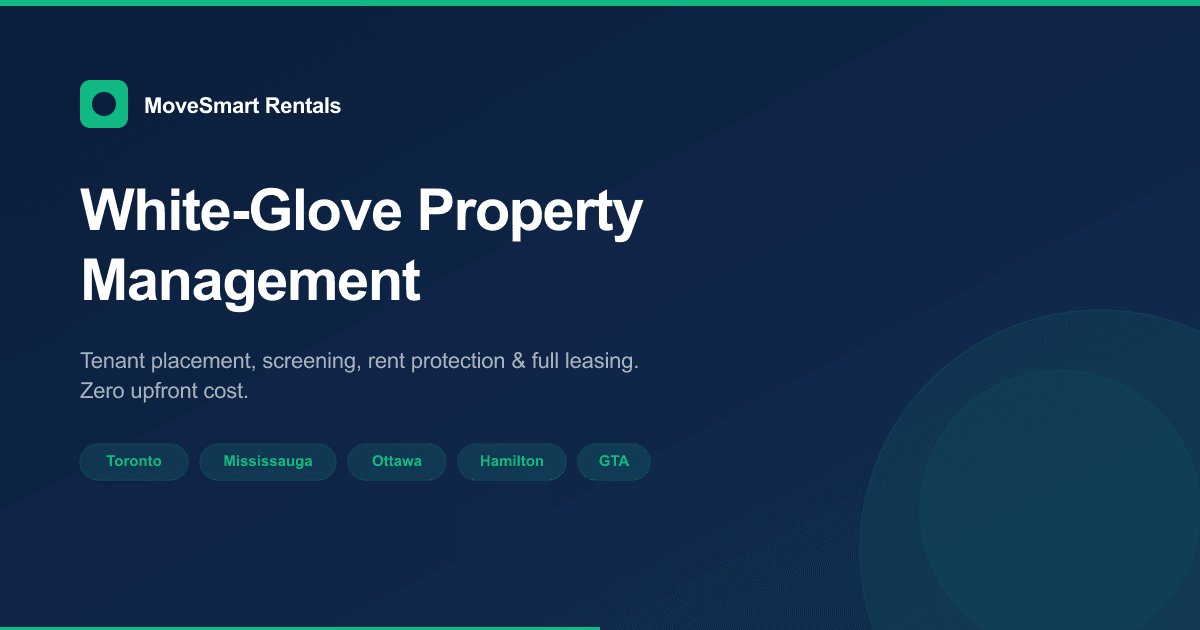
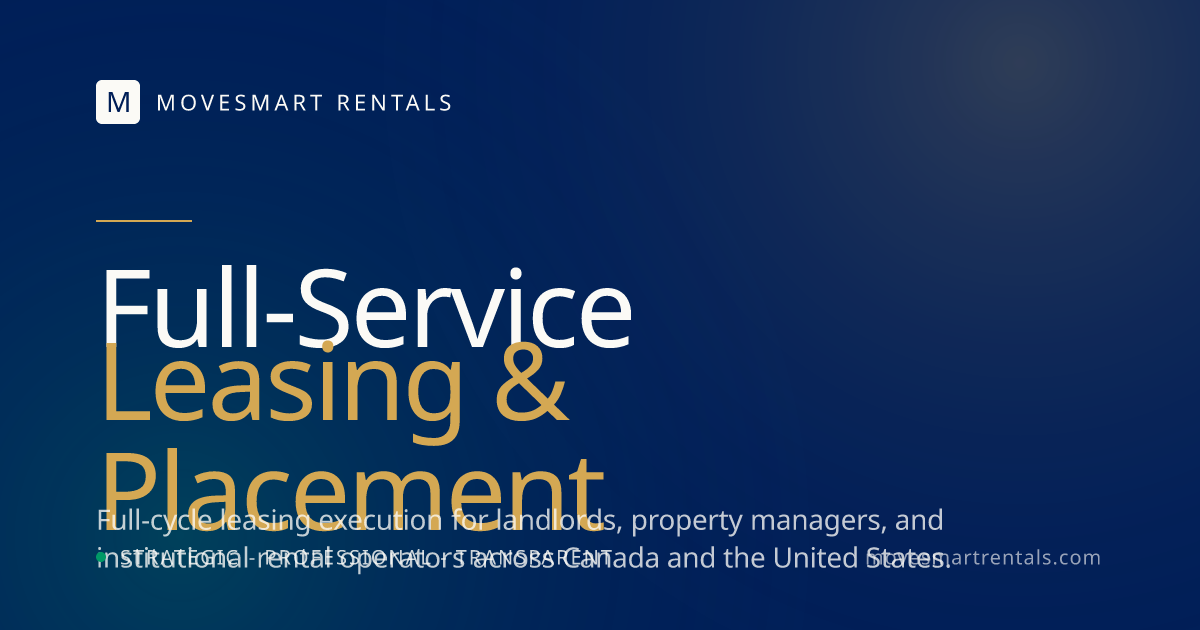
fix: hide /properties/ from public + refresh stale OG share image
Client direction (Jun 2026):

1) Hide the /properties/ rental browser from public surfaces. The route
   itself stays mounted (direct URL still resolves) so internal users can
   reach it if needed, but it's no longer discoverable or indexable.

   - Removed "Browse Properties" entry from header nav, mobile nav, and
     footer "Tenant Resources" column (nav-config.ts + mobile-nav.tsx).
   - Removed the "Browse rentals" CTA button from the footer brand block,
     the home-page hero, and the owners-page hero (next to "List my
     property" — these were the most prominent public entry points).
   - Removed the strong "See all live listings" CTA from the tenants
     property-feed section.
   - Converted the four property-type cards on /tenants/ from Links to
     non-interactive divs and dropped the "Browse {type}" CTA text, so
     the visual showcase remains but no longer click-throughs to the
     hidden page. Section copy updated to drop the "filter the live
     listings" hook.
   - Added metadata.robots { index: false, follow: false, nocache: true }
     plus the googleBot equivalents on both /properties/ and
     /properties/[slug]/ so search engines fully drop the surface.
   - Added "/properties/" and "/properties/*" to robots.ts Disallow.
   - Sitemap.ts already had no /properties/ entries — no change needed.

2) The dynamic OG image generator at src/app/opengraph-image.tsx has the
   correct new branding ("Full-Service Leasing & Placement") but the
[…]

diff --git a/src/app/(site)/tenants/page.tsx b/src/app/(site)/tenants/page.tsx
@@ -360,13 +360,8 @@ export default async function TenantsPage() {
         </div>
       </div>
 
-      {/* Strong CTA */}
-      <Link
-        href="/properties/"
-        className="mt-6 flex w-full items-center justify-center gap-2 rounded-xl bg-brand-emerald px-4 py-3 text-sm font-bold text-white shadow-sm transition-all hover:-translate-y-0.5 hover:bg-brand-emerald-dark hover:shadow-md"
-      >
-        See all live listings
-      </Link>
+      {/* "See all live listings" CTA removed per client direction
+          (Jun 2026) — /properties/ is hidden from public surfaces. */}
 
       <div className="mt-5 border-t border-brand-navy/10 pt-4">
         <p className="text-[11px] leading-relaxed text-slate-500">
@@ -558,7 +553,7 @@ export default async function TenantsPage() {
                 <span className="text-brand-gold" aria-hidden="true">.</span>
               </h2>
               <p className="mt-5 max-w-xl text-base leading-relaxed text-slate-600 sm:text-lg">
-                Four formats, every one of them owner-verified. Pick the layout that fits your life — then filter the live listings.
+                Four formats, every one of them owner-verified. Pick the layout that fits your life.
               </p>
             </div>
           </RevealOnScroll>
@@ -570,9 +565,12 @@ export default async function TenantsPage() {
                 index={idx}
                 className="h-full"
               >
-                <Link
-                  href="/properties/"
-                  className="group flex h-full flex-col overflow-hidden rounded-3xl border border-slate-200 bg-white shadow-sm transition-all duration-500 hover:-translate-y-1 hover:border-brand-emerald/30 hover:shadow-2xl hover:shadow-brand-navy/10"
+                {/* Property-type cards: previously linked to /properties/.
+                    Per client direction (Jun 2026), /properties/ is hidden
+                    from public surfaces — these cards now render as a
+                    static showcase (no click-through). */}
+                <div
+                  className="group flex h-full flex-col overflow-hidden rounded-3xl border border-slate-200 bg-white shadow-sm"
                 >
                   {/* Hero image */}
                   <div className="relative aspect-[4/3] overflow-hidden bg-slate-100">
@@ -580,7 +578,7 @@ export default async function TenantsPage() {
                       src={type.imageSrc}
                       alt={type.imageAlt}
                       fill
-                      className="object-cover transition-transform duration-[1200ms] ease-out group-hover:scale-105"
+                      className="object-cover"
                       sizes="(max-width: 1024px) 100vw, 320px"
                       unoptimized
                     />
@@ -604,11 +602,8 @@ export default async function TenantsPage() {
                   {/* Body */}
                   <div className="flex flex-1 flex-col gap-4 p-5 sm:p-6">
                     <p className="text-sm leading-relaxed text-slate-600 sm:text-[15px]">{type.desc}</p>
-                    <span className="mt-auto inline-flex items-center gap-1.5 text-sm font-semibold text-brand-emerald transition-colors group-hover:text-emerald-700">
-                      Browse {type.title.toLowerCase()}
-                    </span>
                   </div>
-                </Link>
+                </div>
               </FeeTableRow>
             ))}
           </div>

diff --git a/src/app/(site)/properties/page.tsx b/src/app/(site)/properties/page.tsx
@@ -15,6 +15,21 @@ export const metadata: Metadata = {
   alternates: {
     canonical: '/properties/',
   },
+  // /properties/ is hidden from public surfaces per client direction
+  // (Jun 2026). The route still resolves by direct URL but is noindexed,
+  // absent from nav/footer/sitemap, and Disallow'd in robots.txt.
+  robots: {
+    index: false,
+    follow: false,
+    nocache: true,
+    googleBot: {
+      index: false,
+      follow: false,
+      noimageindex: true,
+      'max-snippet': -1,
+      'max-image-preview': 'none',
+    },
+  },
   openGraph: {
     title: 'Properties & Available Rentals | MoveSmart Rentals',
     description:

diff --git a/src/app/(site)/properties/[slug]/page.tsx b/src/app/(site)/properties/[slug]/page.tsx
@@ -67,6 +67,18 @@ export async function generateMetadata({ params }: PageProps): Promise<Metadata>
     title: unit.unit_name,
     description,
     alternates: { canonical: `/properties/${slug}/` },
+    // Individual /properties/<slug>/ pages inherit the public-hidden
+    // status of /properties/ (client direction, Jun 2026).
+    robots: {
+      index: false,
+      follow: false,
+      nocache: true,
+      googleBot: {
+        index: false,
+        follow: false,
+        noimageindex: true,
+      },
+    },
     openGraph: {
       title,
       description,

diff --git a/src/app/(site)/owners/page.tsx b/src/app/(site)/owners/page.tsx
@@ -972,12 +972,8 @@ export default async function OwnersPage() {
               >
                 List my property
               </a>
-              <Link
-                href="/properties/"
-                className="inline-flex items-center justify-center gap-2 rounded-full border border-white/20 bg-white/5 px-7 py-3.5 text-sm font-semibold text-white transition-all hover:border-white/40 hover:bg-white/10"
-              >
-                Browse rentals
-              </Link>
+              {/* "Browse rentals" CTA removed per client direction
+                  (Jun 2026) — /properties/ is hidden from public surfaces. */}
             </div>
           </RevealOnScroll>
         </div>

diff --git a/src/app/page.tsx b/src/app/page.tsx
@@ -334,12 +334,8 @@ export default async function HomePage() {
                 >
                   List my property
                 </a>
-                <Link
-                  href="/properties/"
-                  className="inline-flex items-center justify-center rounded-lg border border-brand-navy/15 bg-white px-6 py-3 text-sm font-semibold text-brand-navy transition-all duration-200 hover:-translate-y-px hover:border-brand-navy/30 hover:bg-slate-50"
-                >
-                  Browse rentals
-                </Link>
+                {/* "Browse rentals" CTA removed per client direction
+                    (Jun 2026) — /properties/ is hidden from public surfaces. */}
               </div>
             </div>
           </div>

diff --git a/src/components/layout/footer.tsx b/src/components/layout/footer.tsx
@@ -142,12 +142,8 @@ export function Footer() {
                 >
                   List my property
                 </a>
-                <Link
-                  href="/properties/"
-                  className="inline-flex items-center justify-center gap-2 rounded-lg border border-white/25 bg-white/[0.06] px-4 py-2.5 text-sm font-semibold text-white transition-all duration-200 hover:-translate-y-px hover:border-white/50 hover:bg-white/10"
-                >
-                  Browse rentals
-                </Link>
+                {/* "Browse rentals" CTA removed per client direction
+                    (Jun 2026) — /properties/ is hidden from public surfaces. */}
               </div>
               {/* Contact info */}
               <div className="mt-5 space-y-1.5">

diff --git a/src/lib/nav-config.ts b/src/lib/nav-config.ts
@@ -37,7 +37,10 @@ export const NAV_GROUPS = [
     label: 'Tenants',
     items: [
       { title: 'Tenant Hub', href: '/tenants/', description: 'Everything renters need in one place' },
-      { title: 'Browse Properties', href: '/properties/', description: 'Available homes, condos & townhouses' },
+      // 'Browse Properties' removed from public nav per client direction
+      // (Jun 2026): /properties/ is no longer exposed to the public. The
+      // route still resolves by direct URL but is noindexed and absent
+      // from nav, footer, and sitemap.
       { title: 'Tenant FAQ', href: '/faq/', description: 'Answers for renters and applicants' },
     ],
   },
@@ -164,7 +167,8 @@ export const FOOTER_COLUMNS = [
     title: 'Tenant Resources',
     links: [
       { label: 'Tenant Hub', href: '/tenants/' },
-      { label: 'Browse Properties', href: '/properties/' },
+      // 'Browse Properties' removed per client direction (Jun 2026) —
+      // /properties/ is hidden from public surfaces.
       { label: 'Tenant FAQ', href: '/faq/' },
     ],
   },

diff --git a/src/app/robots.ts b/src/app/robots.ts
@@ -15,6 +15,12 @@ export default function robots(): MetadataRoute.Robots {
           '/_next/',
           '/*.json$',
           '/draft/',
+          // /properties/ hidden from the public per client direction
+          // (Jun 2026). Disallow at the crawler level so no engine
+          // surfaces it in results — the page itself is also noindexed
+          // and individual /properties/<slug>/ detail pages inherit.
+          '/properties/',
+          '/properties/*',
         ],
       },
       // Explicitly allow major AI / LLM crawlers so MoveSmart content is

diff --git a/src/components/layout/mobile-nav.tsx b/src/components/layout/mobile-nav.tsx
@@ -51,11 +51,10 @@ const MOBILE_NAV_SECTIONS: ReadonlyArray<NavSectionDef> = [
     label: 'Tenants',
     items: [
       { title: 'Tenant Hub', href: '/tenants/' },
-      { title: 'Browse Properties', href: '/properties/' },
+      // 'Browse Properties' hidden from public per client direction (Jun 2026).
       { title: 'Tenant FAQ', href: '/faq/' },
     ],
   },
-  { label: 'Properties', href: '/properties/' },
   {
     label: 'Services',
     items: [